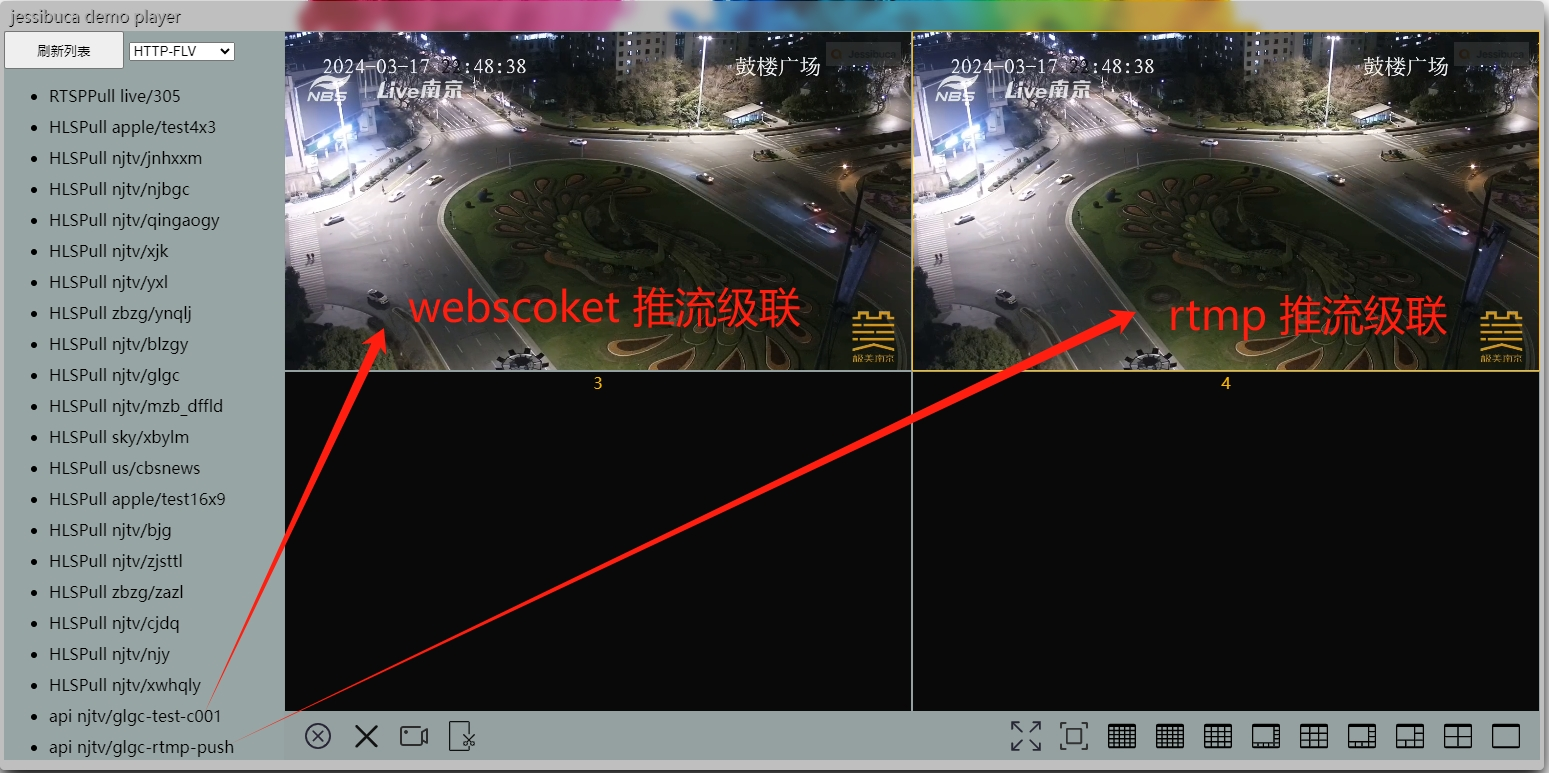
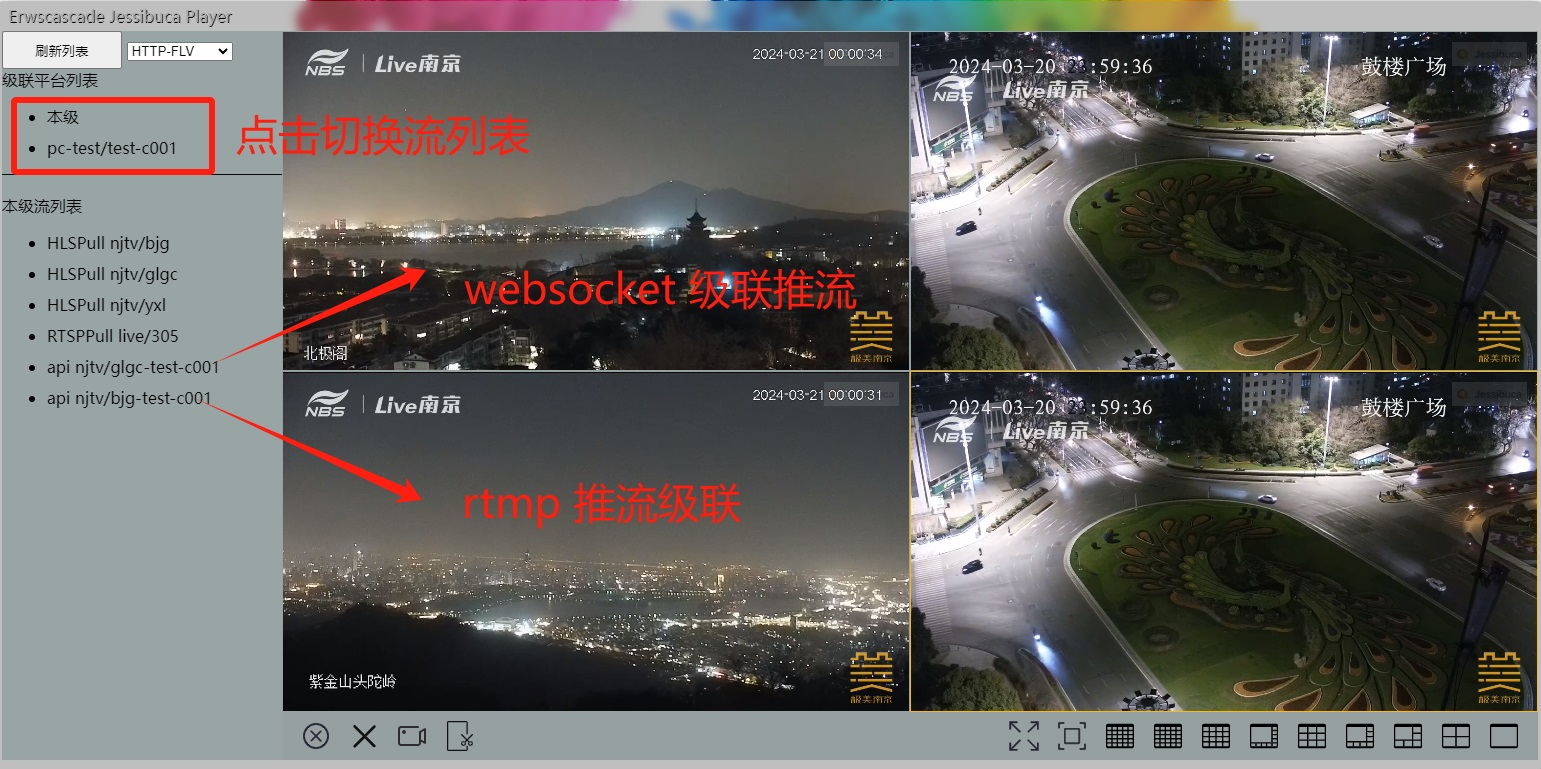
提交截图效果

diff --git a/ui/index.html b/ui/index.html
@@ -2,7 +2,7 @@
 <html lang="en">
 <head>
     <meta charset="UTF-8">
-    <title>Jessibuca mult demo</title>
+    <title>Erwscascade Jessibuca Player</title>
     <!--  @media  才起作用 -->
     <meta name="viewport" content="width=device-width" initial-scale="1.0">
     <script src="./jessibuca-pro-demo.js"></script>
@@ -31,7 +31,7 @@
         }
 
         .container-shell:before {
-            content: "jessibuca demo player";
+            content: "Erwscascade Jessibuca Player";
             position: absolute;
             color: darkgray;
             top: 4px;
